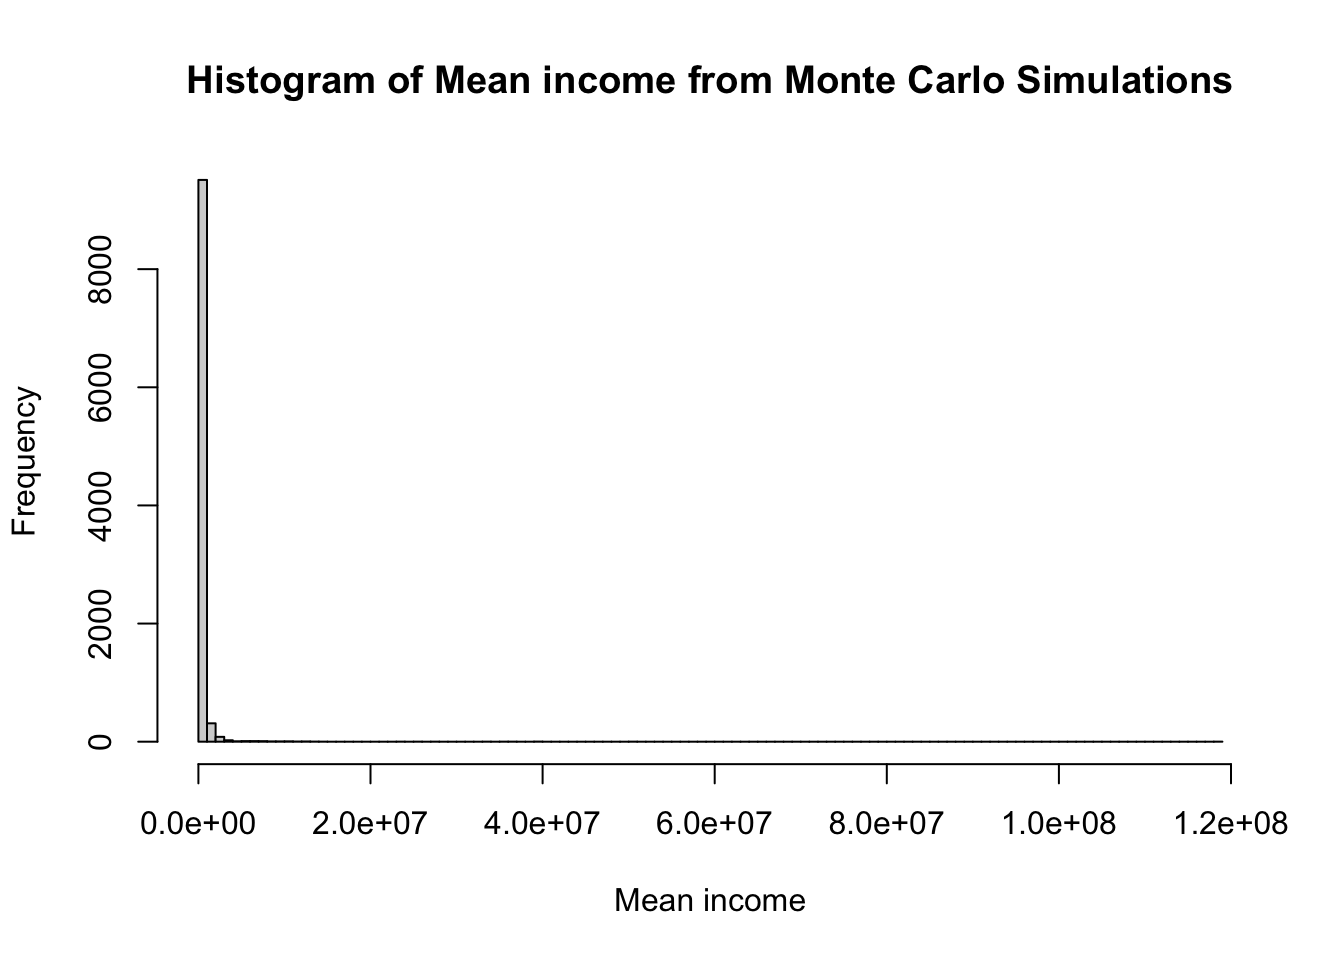
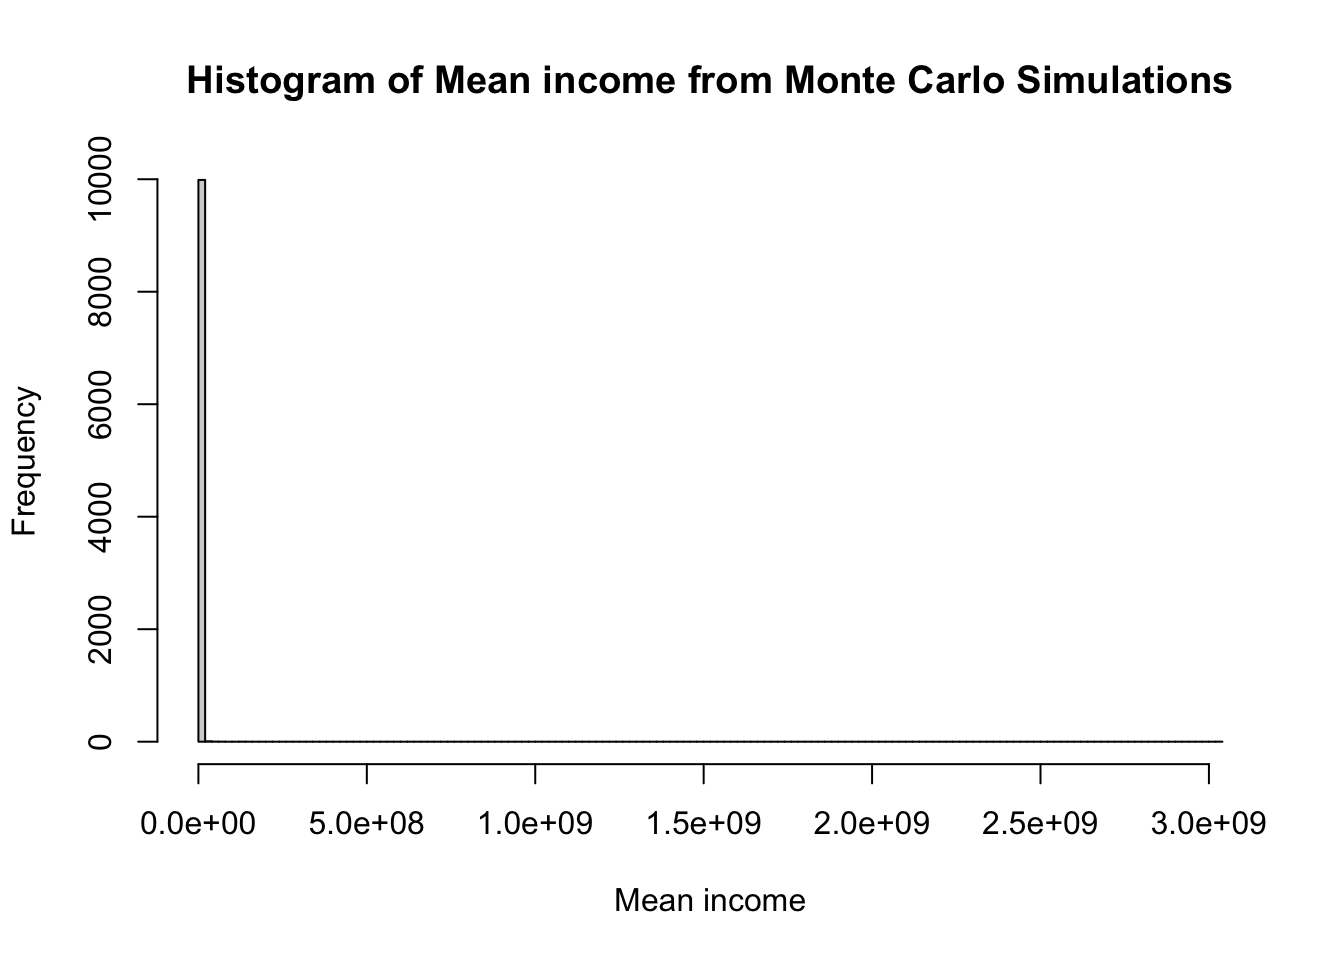
2241024

diff --git a/docs/posts/montecarlo.html b/docs/posts/montecarlo.html
@@ -1352,7 +1352,7 @@ Income distribution is not normal
 </details>
 <div class="cell-output cell-output-stdout">
 <pre><code>     Min.   1st Qu.    Median      Mean   3rd Qu.      Max. 
-   216895    296683    344510    524799    439716 118208986 </code></pre>
+2.111e+05 2.961e+05 3.428e+05 8.361e+05 4.342e+05 3.030e+09 </code></pre>
 </div>
 <details open="" class="code-fold">
 <summary>Code</summary>
@@ -1360,7 +1360,7 @@ Income distribution is not normal
 </details>
 <div class="cell-output cell-output-stdout">
 <pre><code>   Min. 1st Qu.  Median    Mean 3rd Qu.    Max. 
-  62147   64069   64512   64515   64943   66918 </code></pre>
+  62094   64081   64512   64513   64945   67016 </code></pre>
 </div>
 <details open="" class="code-fold">
 <summary>Code</summary>
@@ -1368,7 +1368,7 @@ Income distribution is not normal
 </details>
 <div class="cell-output cell-output-stdout">
 <pre><code>     Min.   1st Qu.    Median      Mean   3rd Qu.      Max. 
-9.593e+05 3.354e+06 5.682e+06 2.304e+07 1.218e+07 1.179e+10 </code></pre>
+9.815e+05 3.287e+06 5.670e+06 5.417e+07 1.165e+07 3.029e+11 </code></pre>
 </div>
 </div>
 </section>

diff --git a/docs/Revision notes/Basic science/Biomechanics/stressstrain.html b/docs/Revision notes/Basic science/Biomechanics/stressstrain.html
@@ -1168,7 +1168,7 @@ cookieconsent.run({
 <h2 class="anchored" data-anchor-id="stress">Stress</h2>
 <ul>
 <li><strong>Definition</strong>: Force applied per unit area.</li>
-<li><strong>Formula</strong>: ( = ) (Force/Area)</li>
+<li><strong>Formula</strong>: σ=F/A (Force/Area)</li>
 <li><strong>Unit</strong>: N/m² or Pascals (Pa)<br>
 Example: 1 Pascal is equivalent to the force of an apple on a 1m² coffee table.</li>
 </ul>
@@ -1177,8 +1177,8 @@ Example: 1 Pascal is equivalent to the force of an apple on a 1m² coffee table.
 <h2 class="anchored" data-anchor-id="strain">Strain</h2>
 <ul>
 <li><strong>Definition</strong>: The measure of deformation, representing the change in length relative to the original length.</li>
-<li><strong>Formula</strong>: ( = )</li>
-<li><strong>Unit</strong>: Unitless<br>
+<li><strong>Formula</strong>: Strain=ΔL/L<sub>0</sub></li>
+<li><strong>Unit</strong>: Unit less<br>
 It is expressed as a ratio or percentage.</li>
 </ul>
 <hr>

diff --git a/docs/Biomedical/Research Methodology/wrangling.html b/docs/Biomedical/Research Methodology/wrangling.html
@@ -2648,10 +2648,10 @@ Record
 <pre><code>     age   sex  class
    &lt;int&gt; &lt;int&gt; &lt;fctr&gt;
 1:     1     1  child
-2:     2     1  child
+2:     2     0  child
 3:     3     0  child
 4:     4     0  child
-5:     5     0  child
+5:     5     1  child
 6:     6     0  child</code></pre>
 </div>
 </div>
@@ -2671,10 +2671,10 @@ Record
      age      0      1
    &lt;int&gt; &lt;fctr&gt; &lt;fctr&gt;
 1:     1   &lt;NA&gt;  child
-2:     2   &lt;NA&gt;  child
+2:     2  child   &lt;NA&gt;
 3:     3  child   &lt;NA&gt;
 4:     4  child   &lt;NA&gt;
-5:     5  child   &lt;NA&gt;
+5:     5   &lt;NA&gt;  child
 6:     6  child   &lt;NA&gt;</code></pre>
 </div>
 </div>

diff --git a/docs/Revision notes/Diagrams/diagrams.html b/docs/Revision notes/Diagrams/diagrams.html
@@ -1641,7 +1641,7 @@ window.document.addEventListener("DOMContentLoaded", function (event) {
 </div>
   </div>
 </footer>
-<script>var lightboxQuarto = GLightbox({"selector":".lightbox","openEffect":"zoom","loop":false,"descPosition":"bottom","closeEffect":"zoom"});
+<script>var lightboxQuarto = GLightbox({"openEffect":"zoom","selector":".lightbox","closeEffect":"zoom","descPosition":"bottom","loop":false});
 (function() {
   let previousOnload = window.onload;
   window.onload = () => {
